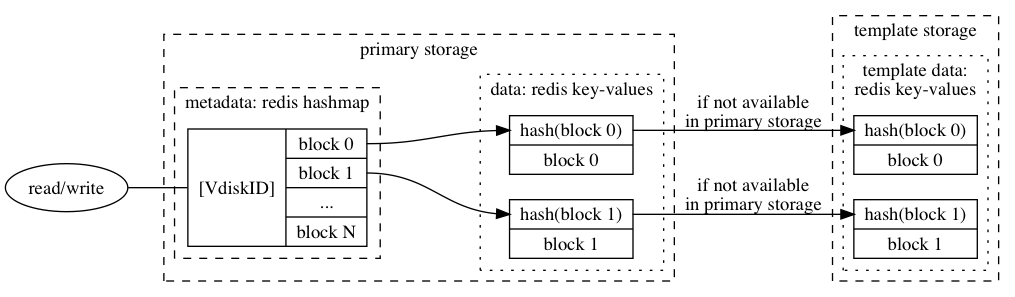
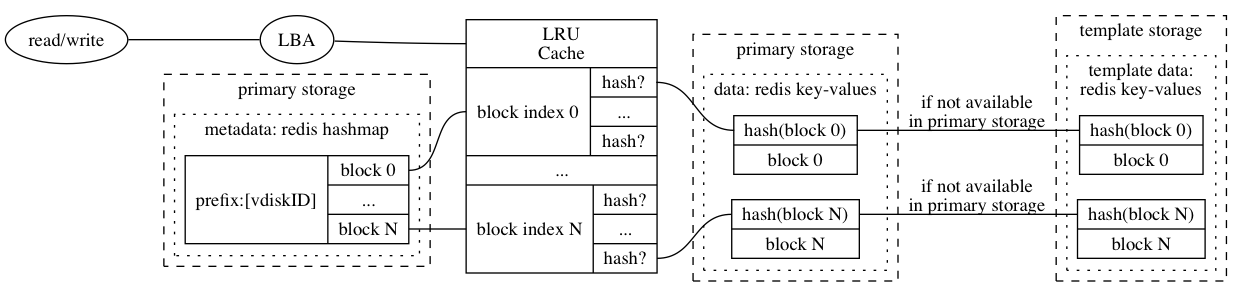
add deduped storage docs

diff --git a/docs/nbd/storage/deduped.md b/docs/nbd/storage/deduped.md
@@ -1,9 +1,76 @@
 # Deduped Storage
 
-summary
+Deduped storage is the underlying storage type for the [boot vdisk type][boot].
 
-used for which vdisks...
+The code for this storage type can be found in [/nbdserver/ardb/deduped.go](/nbdserver/ardb/deduped.go).
 
 ## Storage
 
-how the data+metadata is actually stored in the ardb
+Deduped storage stores any given [block][block] only once. Meaning it has no duplicated [blocks][block], hence its name. All [blocks][block] are identified by their [hash][hash], and an [LBA][lba] scheme is used to map each [block index (2)][index] to the correct [block][block] [hash][hash].
+
+![Deduped Storage](/docs/assets/nbd_deduped_storage.png)
+
+For those [vdisks][vdisk] that have [template][template] support, [blocks][block] can also be fetched from the [template server][template] in case it is not available in the primary [storage (1)][storage] cluster.
+
+This storage spreads its data over all available [data (1)][data] [storage (1)][storage] servers. Which specific [storage (1)][storage] server a block is being written to, is defined by following formula:
+
+```
+serverIndex = firstByte(hash(block)) % N
+
+where N is the amount of primary/template
+data servers specified in the vdisk's config
+```
+
+As noted before, deduped blocks (= [data (1)][data]) are stored on the [data][data] [storage (1)][storage] cluster. On which each [block][block] is stored as an individual value using the [hash][hash] of that [block][block] as its key.
+
+## LBA
+
+The deduped storage makes use of an [LBA][lba] scheme to map all stored [block indices (2)][index] with the [hash][hash] of the deduped content [block][block] it is linked to.
+
+The [LBA][lba] speeds reading up in two different ways:
+
++ It bundles and stores [hashes][hash] in [sectors][sector]. Each sector contains `128` [hashes][hash], this makes sequential reads/writes much faster.
++ It [caches (2)][cache] sectors in a max capped [LRU cache][lru].
+
+The sector [hash][hash] count of `128` is defined by [`lba.NumberOfRecordsPerLBASector`](/nbdserver/lba/sector.go#13) constant. A sector has a fixed size of 4 KiB (due to the fact that a [hash][hash] has a fixed size of 32 bytes) and can address 512 KiB (if the block size is 4 KiB). The bigger the block size, the more [data (1)][data] a [sector][sector] can address.
+
+Because the use of [sectors][sector], we need to calculate the `sectorIndex` whenever we want to read/write a hash to/from a `sector`, using the following formula:
+
+```
+sectorIndex = blockIndex / N
+
+where N is equal to the
+`lba.NumberOfRecordsPerLBASector` constant
+```
+
+Meaning that a [hash][hash] for [block index (2)][index] `200` would be stored in the `2nd` sector.
+
+[LBA][lba] sectors are stored together in the [metadata (1)][metadata] [storage (1)][storage] server (of the primary [storage (1)][storage] cluster) in an [ARDB][ardb] hashmap. The key of this hashmap is in the prefixed "`lba:<vdiskID>`" format, while the fields are the sector [indices (3)][index]. The hashmap's key prefix is defined by the [`lba.StorageKeyPrefix`](/nbdserver/lba/lba.go#323) constant. "`lba:foo`" is an example of such a hashmap key, where the `vdiskID` is "`foo`".
+
+The code for the [LBA][lba] code can be found in [/nbdserver/lba/lba.go](/nbdserver/lba/lba.go).
+
+## Possible Failures
+
+Any read/write operation will fail if:
+
++ the [metadata (1)][metadata] [storage (1)][storage] server is not reachable, while the required [LBA sector][sector] is not in the [LRU cache][lru] already;
++ a required [LBA sector][sector] is read from the [metadata (1)][metadata] [storage (1)][storage] server is corrupt or ill-formed;
++ a required primary [storage (1)][storage] server is not reachable;
++ a [block][block] cannot be read, because it is not available on the primary [storage (1)][storage] server, and the relevant [template][template] [storage (1)][storage] server which is specified is not reachable;
+
+
+[ardb]: /docs/glossary.md#ardb
+[cache]: /docs/glossary.md#cache
+[template]: /docs/glossary.md#template
+[metadata]: /docs/glossary.md#metadata
+[data]: /docs/glossary.md#data
+[vdisk]: /docs/glossary.md#vdisk
+[tlog]: /docs/glossary.md#tlog
+[storage]: /docs/glossary.md#storage
+[block]: /docs/glossary.md#block
+[sector]: /docs/glossary.md#sector
+[lru]: /docs/glossary.md#lru
+[lba]: /docs/glossary.md#lba
+[index]: /docs/glossary.md#index
+[hash]: /docs/glossary.md#hash
+[boot]: /docs/glossary.md#boot
